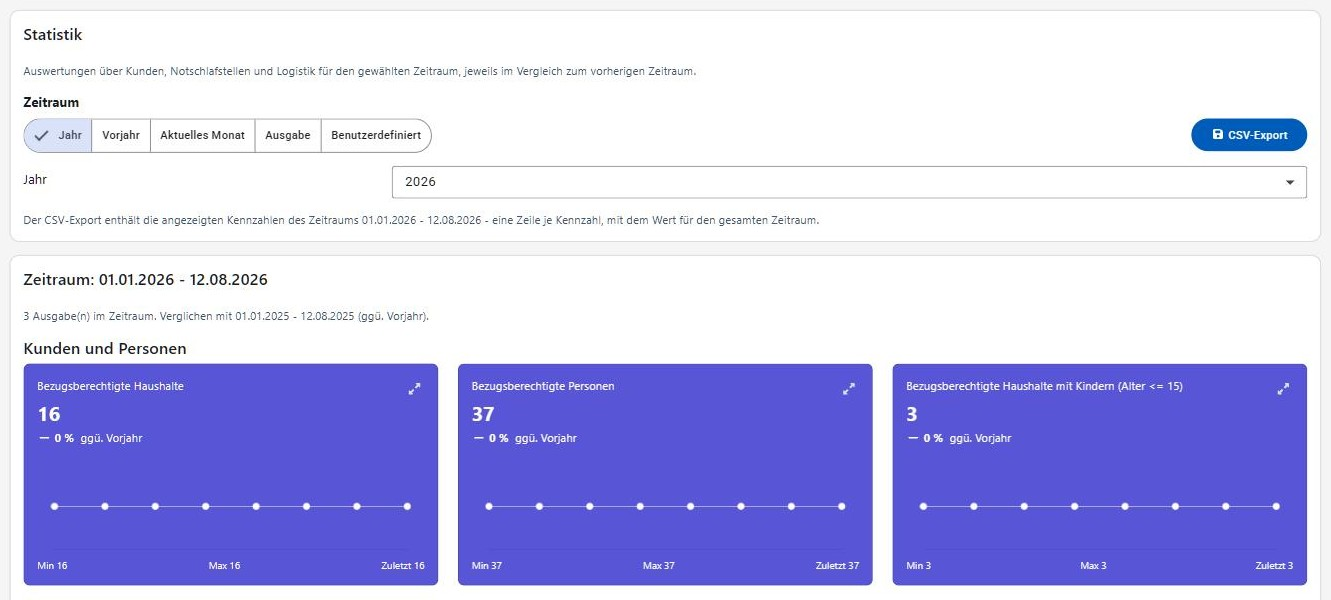
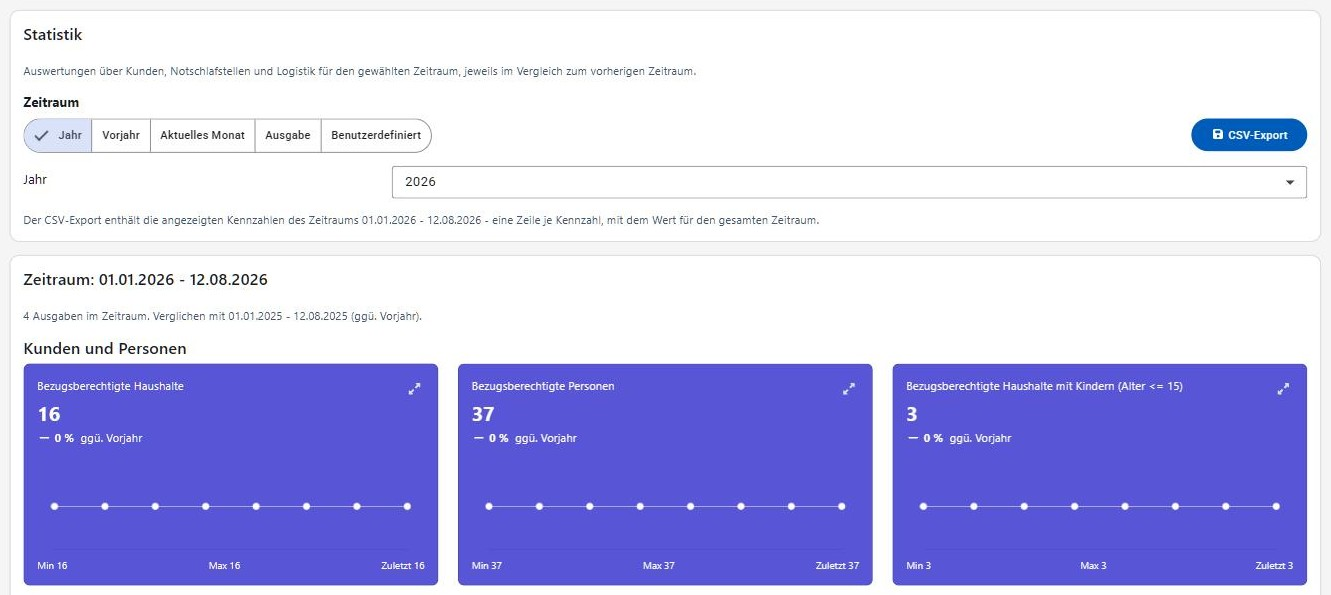
fix(statistics): format the computed values the way the rest of the screen does
The min/max/last labels, the delta sentence and the chart tooltips built their
own de-AT formatter, while every number the templates print goes through the
`number` pipe and the application's `de-DE` locale. They share one helper now
and take the locale they are rendered in.

The enlarged view also no longer opens while a card is loading - what it would
show then is the period before the one being fetched - and the summary line
counts its distributions in plain German instead of "Ausgabe(n)".

diff --git a/frontend/src/main/webapp/src/app/modules/statistics/components/statistics-panel.component.ts b/frontend/src/main/webapp/src/app/modules/statistics/components/statistics-panel.component.ts
@@ -1,5 +1,4 @@
-import {Component, computed, inject, input} from '@angular/core';
-import {FormsModule, ReactiveFormsModule} from '@angular/forms';
+import {Component, computed, inject, input, LOCALE_ID} from '@angular/core';
 import {CommonModule} from '@angular/common';
 import {MatCardModule} from '@angular/material/card';
 import {MatDialog} from '@angular/material/dialog';
@@ -8,7 +7,7 @@ import {TooltipItem} from 'chart.js';
 import {FaIconComponent} from '@fortawesome/angular-fontawesome';
 import {faArrowDown, faArrowUp, faMinus, faUpRightAndDownLeftFromCenter} from '@fortawesome/free-solid-svg-icons';
 import {StatisticsDetailData} from '../../../api/statistics-api.service';
-import {computeDelta} from './statistics-comparison';
+import {computeDelta, formatStatisticsValue} from './statistics-comparison';
 import {StatisticsDetailDialogComponent} from './statistics-detail-dialog.component';
 
 @Component({
@@ -16,8 +15,6 @@ import {StatisticsDetailDialogComponent} from './statistics-detail-dialog.compon
   templateUrl: 'statistics-panel.component.html',
   imports: [
     CommonModule,
-    FormsModule,
-    ReactiveFormsModule,
     MatCardModule,
     BaseChartDirective,
     FaIconComponent,
@@ -25,6 +22,7 @@ import {StatisticsDetailDialogComponent} from './statistics-detail-dialog.compon
 })
 export class StatisticsPanelComponent {
   private readonly dialog = inject(MatDialog);
+  private readonly locale = inject(LOCALE_ID);
 
   data = input<StatisticsDetailData>();
   /**
@@ -69,14 +67,15 @@ export class StatisticsPanelComponent {
       return '';
     }
 
-    const direction = delta.direction === 'up' ? 'mehr' : delta.direction === 'down' ? 'weniger' : 'unverändert';
+    if (delta.direction === 'flat') {
+      return `unverändert ${this.comparisonLabel()}`;
+    }
+
     const amount = delta.percentage !== undefined
-      ? `${this.formatNumber(Math.abs(delta.percentage), 1)} %`
+      ? `${formatStatisticsValue(Math.abs(delta.percentage), undefined, this.locale, '1.0-1')} %`
       : this.formatValue(Math.abs(delta.difference));
 
-    return delta.direction === 'flat'
-      ? `unverändert ${this.comparisonLabel()}`
-      : `${amount} ${direction} ${this.comparisonLabel()}`;
+    return `${amount} ${delta.direction === 'up' ? 'mehr' : 'weniger'} ${this.comparisonLabel()}`;
   });
 
   detailsLabel = computed(() => `${this.data()?.subTitle ?? ''} vergrößert anzeigen`);
@@ -149,9 +148,13 @@ export class StatisticsPanelComponent {
     } as StatisticsPanelData;
   });
 
+  /**
+   * Not while the card is loading: what it holds then is the period before the one being fetched,
+   * and enlarging numbers the card itself no longer shows is worse than nothing happening.
+   */
   openDetails() {
     const detail = this.data();
-    if (!detail) {
+    if (!detail || this.loading()) {
       return;
     }
 
@@ -167,13 +170,7 @@ export class StatisticsPanelComponent {
   }
 
   private formatValue(value: number): string {
-    const formatted = this.formatNumber(value, 2);
-    const unit = this.data()?.unit;
-    return unit ? `${formatted} ${unit}` : formatted;
-  }
-
-  private formatNumber(value: number, maximumFractionDigits: number): string {
-    return new Intl.NumberFormat('de-AT', {maximumFractionDigits: maximumFractionDigits}).format(value);
+    return formatStatisticsValue(value, this.data()?.unit, this.locale);
   }
 
   protected readonly faArrowUp = faArrowUp;

diff --git a/frontend/src/main/webapp/src/app/modules/statistics/components/statistics-detail-dialog.component.ts b/frontend/src/main/webapp/src/app/modules/statistics/components/statistics-detail-dialog.component.ts
@@ -1,4 +1,4 @@
-import {Component, computed, inject} from '@angular/core';
+import {Component, computed, inject, LOCALE_ID} from '@angular/core';
 import {MAT_DIALOG_DATA, MatDialogModule, MatDialogRef} from '@angular/material/dialog';
 import {MatButtonModule} from '@angular/material/button';
 import {DecimalPipe} from '@angular/common';
@@ -6,7 +6,7 @@ import {BaseChartDirective} from 'ng2-charts';
 import {TooltipItem} from 'chart.js';
 import {StatisticsDetailData} from '../../../api/statistics-api.service';
 import {TafelDialogComponent} from '../../../common/components/tafel-dialog/tafel-dialog.component';
-import {computeDelta} from './statistics-comparison';
+import {computeDelta, formatStatisticsValue} from './statistics-comparison';
 
 export interface StatisticsDetailDialogData {
   detail: StatisticsDetailData;
@@ -29,6 +29,7 @@ export interface StatisticsDetailDialogData {
 export class StatisticsDetailDialogComponent {
   readonly dialogRef = inject(MatDialogRef<StatisticsDetailDialogComponent>);
   readonly data: StatisticsDetailDialogData = inject(MAT_DIALOG_DATA);
+  private readonly locale = inject(LOCALE_ID);
 
   delta = computed(() => computeDelta(this.data.detail, this.data.comparison));
 
@@ -89,7 +90,6 @@ export class StatisticsDetailDialogComponent {
   };
 
   private withUnit(value: number): string {
-    const formatted = new Intl.NumberFormat('de-AT', {maximumFractionDigits: 2}).format(value);
-    return this.data.detail.unit ? `${formatted} ${this.data.detail.unit}` : formatted;
+    return formatStatisticsValue(value, this.data.detail.unit, this.locale);
   }
 }

diff --git a/frontend/src/main/webapp/src/app/modules/statistics/components/statistics-comparison.ts b/frontend/src/main/webapp/src/app/modules/statistics/components/statistics-comparison.ts
@@ -1,4 +1,5 @@
 import dayjs from 'dayjs';
+import {formatNumber} from '@angular/common';
 import {StatisticsDetailData, StatisticsDistribution} from '../../../api/statistics-api.service';
 
 /**
@@ -80,6 +81,21 @@ export function previousDateRange(
       return {from: previousTo.subtract(to.diff(from, 'day'), 'day').toDate(), to: previousTo.toDate()};
     }
   }
+}
+
+/**
+ * A number this screen computes itself - the min/max of a course, a difference between two periods,
+ * the value under a chart's pointer - formatted the way the `number` pipe formats the ones in the
+ * templates beside it, with the unit the key figure is measured in appended.
+ */
+export function formatStatisticsValue(
+  value: number,
+  unit: string | undefined,
+  locale: string,
+  digitsInfo = '1.0-2'
+): string {
+  const formatted = formatNumber(value, locale, digitsInfo);
+  return unit ? `${formatted} ${unit}` : formatted;
 }
 
 export const COMPARISON_LABELS: Record<DateRangeMode, string> = {

diff --git a/frontend/src/main/webapp/src/app/modules/statistics/components/statistics-panel.component.spec.ts b/frontend/src/main/webapp/src/app/modules/statistics/components/statistics-panel.component.spec.ts
@@ -144,6 +144,20 @@ describe('StatisticsComponent', () => {
     });
   });
 
+  it('opens nothing while the shown period is being replaced', () => {
+    const fixture = TestBed.createComponent(StatisticsPanelComponent);
+    const dialog = TestBed.inject(MatDialog);
+    const openSpy = vi.spyOn(dialog, 'open').mockReturnValue({} as any);
+
+    fixture.componentRef.setInput('data', detail);
+    fixture.componentRef.setInput('loading', true);
+    fixture.detectChanges();
+
+    fixture.nativeElement.querySelector('mat-card').click();
+
+    expect(openSpy).not.toHaveBeenCalled();
+  });
+
   it('opens nothing while there is no data yet', () => {
     const fixture = TestBed.createComponent(StatisticsPanelComponent);
     const dialog = TestBed.inject(MatDialog);

diff --git a/frontend/src/main/webapp/src/app/modules/statistics/views/general/statistics-general.component.html b/frontend/src/main/webapp/src/app/modules/statistics/views/general/statistics-general.component.html
@@ -121,7 +121,11 @@
   </mat-card-header>
   <mat-card-content>
     <p class="mb-4 text-sm text-slate-600" testid="rangeSummary">
-      {{ distributionsInRange() }} Ausgabe(n) im Zeitraum.
+      @if (distributionsInRange() === 1) {
+        1 Ausgabe im Zeitraum.
+      } @else {
+        {{ distributionsInRange() }} Ausgaben im Zeitraum.
+      }
       @if (comparisonRangeLabel()) {
         Verglichen mit {{ comparisonRangeLabel() }} ({{ comparisonLabel() }}).
       } @else {

diff --git a/frontend/src/main/webapp/cypress/e2e/statistics-general.cy.ts b/frontend/src/main/webapp/cypress/e2e/statistics-general.cy.ts
@@ -124,7 +124,7 @@ describe('Statistics General', () => {
     cy.wait('@emptyRangeData');
 
     cy.byTestId('noDistributionsHint').should('be.visible');
-    cy.byTestId('rangeSummary').should('contain.text', '0 Ausgabe(n) im Zeitraum');
+    cy.byTestId('rangeSummary').should('contain.text', '0 Ausgaben im Zeitraum');
   });
 
   it('drives the date range from a selected past distribution', () => {
